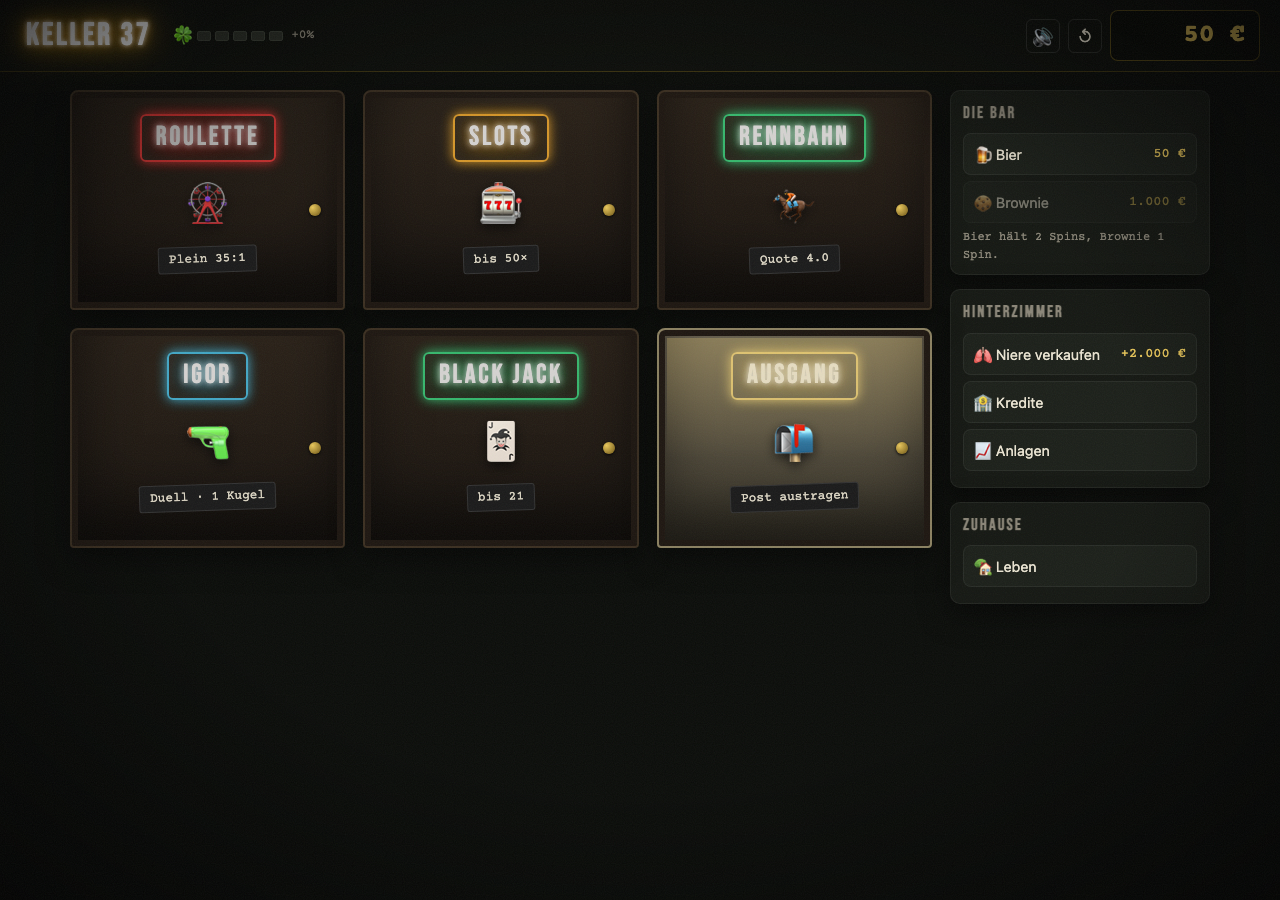
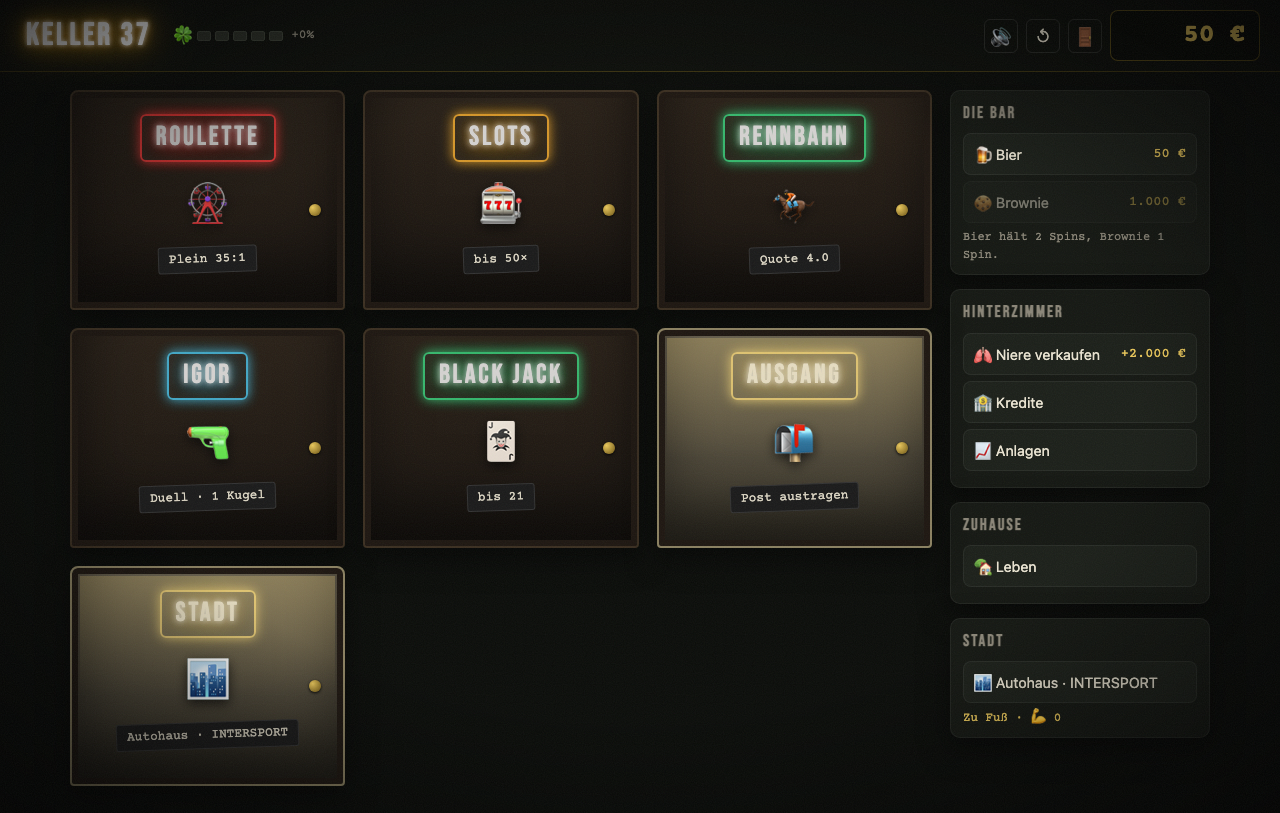
test: Playtest-Szenarien für Stadt, Überfall und Story-Freischaltung, Screenshots, Checkliste

diff --git a/tests/playtest-story.py b/tests/playtest-story.py
@@ -850,6 +850,166 @@ async def scenario_all_scenes(cdp):
            "gespielt=%d/%d fehler=%s" % (len(played), len(scene_ids), new_errors))
 
 
+async def scenario_stadt_shop(cdp):
+    """Stadt: Kauf abgelehnt ohne Geld, Kauf, Upgrade, Markenwechsel mit Bestaetigung, Abbruch."""
+    await cdp.navigate(URL_BASE + "?fresh&screen=stadt")
+    await asyncio.sleep(1.0)
+    await cdp.inject_helpers()
+    n_buttons = await cdp.eval("document.querySelectorAll('#shopAudi .btn').length", await_promise=False)
+    record("stadt: ohne Geld kein Kaufen-Button", n_buttons == 0, "buttons=%s" % n_buttons)
+    await cdp.screenshot("stadt-arm.png")
+    await cdp.eval("State.s.balance = 20000; State.save(); UI.setBalance(20000, {animate:false}); Stadt.render(); 0", await_promise=False)
+    await asyncio.sleep(0.2)
+    await cdp.eval("Stadt.buyCar('audiA3'); 0", await_promise=False)
+    await asyncio.sleep(0.5)
+    await cdp.advance_cutscene()
+    await asyncio.sleep(0.4)
+    car = await cdp.eval("State.s.car", await_promise=False)
+    bal = await cdp.eval("State.s.balance", await_promise=False)
+    record("stadt: A3 gekauft", car == "audiA3" and bal == 18500, "car=%s bal=%s" % (car, bal))
+    label = await cdp.eval("[...document.querySelectorAll('#shopAudi .gear-card')][1].querySelector('.btn').textContent", await_promise=False)
+    record("stadt: RS 4 zeigt Upgrade-Preis mit Inzahlungnahme", label is not None and "7.250" in label, "label=%s" % label)
+    await cdp.screenshot("stadt-a3.png")
+    # Markenwechsel mit Bestaetigung: erst abbrechen, dann zustimmen
+    await cdp.eval("Stadt.buyCar('mercC'); 0", await_promise=False)
+    await asyncio.sleep(0.5)
+    await cdp.advance_cutscene(label_hint="Doch nicht")
+    await asyncio.sleep(0.3)
+    car = await cdp.eval("State.s.car", await_promise=False)
+    record("stadt: Abbruch laesst Auto unveraendert", car == "audiA3", "car=%s" % car)
+    await cdp.eval("Stadt.buyCar('mercC'); 0", await_promise=False)
+    await asyncio.sleep(0.5)
+    await cdp.advance_cutscene(label_hint="Ja, tauschen")
+    await asyncio.sleep(0.4)
+    car = await cdp.eval("State.s.car", await_promise=False)
+    bal = await cdp.eval("State.s.balance", await_promise=False)
+    record("stadt: Markenwechsel A3 -> C-Klasse kostet 1.250", car == "mercC" and bal == 18500 - 1250, "car=%s bal=%s" % (car, bal))
+    await cdp.eval("Stadt.buyShoes('trail'); 0", await_promise=False)
+    await asyncio.sleep(0.5)
+    await cdp.advance_cutscene()
+    await asyncio.sleep(0.3)
+    shoes = await cdp.eval("State.s.shoes", await_promise=False)
+    record("stadt: Trail-Runner gekauft", shoes == "trail", "shoes=%s" % shoes)
+    line = await cdp.eval("document.querySelector('#gearLine') && document.querySelector('#gearLine').textContent", await_promise=False)
+    record("stadt: Seitenleiste zeigt Besitz", line is not None and "Mercedes C-Klasse" in line and "Trail-Runner" in line and "💪 0" in line, "line=%s" % line)
+    terms = await cdp.eval("UI.show('finance').then(()=>document.querySelector('#bankTerms').textContent)")
+    record("stadt: Bank zeigt Mercedes-Konditionen", terms is not None and "27 %" in terms and "4.000" in terms, "terms=%s" % terms)
+
+
+async def scenario_mugging(cdp):
+    """Ueberfall im freien Spiel: alle drei Ausgaenge per ?mug."""
+    async def setup(mug):
+        await cdp.navigate(URL_BASE + "?fresh&screen=hub&mug=" + mug)
+        await asyncio.sleep(1.0)
+        await cdp.inject_helpers()
+        await cdp.eval("State.s.balance = 1000; State.s.stats.spins = 20; State.save(); UI.setBalance(1000, {animate:false}); 0", await_promise=False)
+    # Zahlen
+    await setup("junkie")
+    await cdp.click(".door[data-screen=slots]")
+    await asyncio.sleep(0.6)
+    active = await cdp.eval("__pt.cutsceneActive()", await_promise=False)
+    record("mug: Szene erscheint beim Tuerwechsel", active is True, "active=%s" % active)
+    # Bis zum Wahl-Panel vorklicken (2 Klicks/Panel: Tipp-Text fertigstellen, dann weiter; das
+    # dritte Panel braucht nur den ersten Klick, um die Choice-Buttons zu rendern) statt gleich zu
+    # screenshotten -- der Brief schoss hier noch auf Panel 1 ("Der kurze Weg...", Screenshot ohne
+    # Raeuber und ohne Prozent-Buttons); Step 3 verlangt aber genau die Choice-Buttons mit Prozenten.
+    await cdp.advance_cutscene(max_steps=5)
+    await cdp.screenshot("mug-intro.png")
+    await cdp.advance_cutscene(label_hint="Zahlen")
+    await asyncio.sleep(0.6)
+    bal = await cdp.eval("State.s.balance", await_promise=False)
+    screen = await cdp.eval("UI.current && UI.current.id", await_promise=False)
+    cd = await cdp.eval("State.s.mugCooldown", await_promise=False)
+    record("mug: Zahlen kostet 200 und fuehrt zu den Slots", bal == 800 and screen == "slots" and cd == 15, "bal=%s screen=%s cd=%s" % (bal, screen, cd))
+    # Kaempfen mit Staerke 20 (sicherer Sieg, Brieftasche)
+    await setup("cousin")
+    await cdp.eval("State.s.strength = 20; State.save(); 0", await_promise=False)
+    await cdp.click(".door[data-screen=roulette]")
+    await asyncio.sleep(0.6)
+    await cdp.advance_cutscene(max_steps=5)
+    await cdp.eval("__pt.advance('Kämpfen')", await_promise=False)
+    await asyncio.sleep(0.5)
+    # Screenshot mitten in der Ergebnis-Szene (Gasse-Hintergrund, Portrait, Kampftext) statt erst
+    # nach deren vollstaendiger Aufloesung -- die Brief-Version schoss erst nach dem kompletten
+    # Durchklicken, als bereits wieder das Roulette-Blatt zu sehen war (siehe Report).
+    await cdp.screenshot("mug-fight.png")
+    await cdp.advance_cutscene()
+    await asyncio.sleep(0.4)
+    bal = await cdp.eval("State.s.balance", await_promise=False)
+    st = await cdp.eval("State.s.strength", await_promise=False)
+    won = await cdp.eval("State.s.stats.fightsWon", await_promise=False)
+    record("mug: Kampf mit Staerke 20 gewonnen, Brieftasche 50-150, Staerke 21", 1050 <= (bal or 0) <= 1150 and st == 21 and won == 1, "bal=%s st=%s won=%s" % (bal, st, won))
+    # Wegrennen mit R8 + Carbon (90 %) - Ergebnis ist zufaellig, nur Konsistenz pruefen
+    await setup("jugend")
+    await cdp.eval("State.s.car = 'audiR8'; State.s.shoes = 'carbon'; State.save(); 0", await_promise=False)
+    await cdp.click(".door[data-screen=blackjack]")
+    await asyncio.sleep(0.6)
+    await cdp.advance_cutscene(label_hint="Wegrennen")
+    await asyncio.sleep(0.6)
+    bal = await cdp.eval("State.s.balance", await_promise=False)
+    st = await cdp.eval("State.s.strength", await_promise=False)
+    record("mug: Flucht laesst Staerke unveraendert, Kontostand 1000 (gelungen) oder 700 (erwischt)", bal in (1000, 700) and st == 0, "bal=%s st=%s" % (bal, st))
+    # Kein Ueberfall bei Cooldown
+    await cdp.eval("Mugging.force = true; State.s.mugCooldown = 5; 0", await_promise=False)
+    await cdp.eval("UI.show('hub'); 0", await_promise=False)
+    await asyncio.sleep(0.6)
+    await cdp.click(".door[data-screen=slots]")
+    await asyncio.sleep(0.6)
+    active = await cdp.eval("__pt.cutsceneActive()", await_promise=False)
+    record("mug: ?mug erzwingt auch im Cooldown (Dev), Szene laeuft", active is True, "active=%s" % active)
+    await cdp.advance_cutscene(label_hint="Zahlen")
+
+
+async def scenario_story_stadt(cdp):
+    """Story: Tag 4 schaltet die Stadt frei, Abend-Ueberfall, Eintreiber ab Staerke 4."""
+    await cdp.navigate(URL_BASE + "?fresh&story=schuld&day=4")
+    await asyncio.sleep(1.2)
+    await cdp.inject_helpers()
+    await cdp.advance_cutscene()
+    await asyncio.sleep(0.4)
+    rooms = await cdp.eval("JSON.stringify(State.s.story.unlocked.rooms)", await_promise=False)
+    record("story: Tag 4 schaltet stadt frei", rooms is not None and "stadt" in rooms, "rooms=%s" % rooms)
+    has_btn = await cdp.eval("!!document.querySelector('#side [data-action=stadt]')", await_promise=False)
+    record("story: Seitenleiste zeigt Stadt-Knopf", has_btn is True, "has=%s" % has_btn)
+    await cdp.screenshot("stadt-story-tag4.png")
+    # Abend-Ueberfall erzwingen
+    await cdp.eval("Mugging.force = 'cousin'; State.s.balance = 500; State.save(); 0", await_promise=False)
+    await cdp.eval("Jobs.take('spueler'); 0", await_promise=False)
+    await asyncio.sleep(0.8)
+    await cdp.eval("Spueler.finish && Spueler.finish(); 0", await_promise=False)
+    await asyncio.sleep(0.8)
+    await cdp.eval("Story.evening(); 0", await_promise=False)
+    await asyncio.sleep(0.8)
+    active = await cdp.eval("__pt.cutsceneActive()", await_promise=False)
+    record("story: Ueberfall am Abend", active is True, "active=%s" % active)
+    await cdp.advance_cutscene(label_hint="Zahlen")
+    await asyncio.sleep(0.5)
+    cd = await cdp.eval("State.s.mugCooldown", await_promise=False)
+    phase = await cdp.eval("State.s.story.phase", await_promise=False)
+    record("story: Cooldown 3 Tage, Abend erreicht", cd == 3 and phase == "evening", "cd=%s phase=%s" % (cd, phase))
+    # Eintreiber
+    await cdp.navigate(URL_BASE + "?fresh&story=schuld&day=13")
+    await asyncio.sleep(1.2)
+    await cdp.inject_helpers()
+    await cdp.advance_cutscene()
+    # Race: der Boot-Kettenaufruf Story.enter() -> applyChapter() -> morning() zeigt 'jobs' selbst
+    # noch an, waehrend advance_cutscene() bereits zurueckkehrt (Cutscene.active wird synchron
+    # false, bevor der then()-Rest von morning() den Screen tatsaechlich neu rendert). Ohne diese
+    # Wartezeile landet der direkt folgende manuelle UI.show('jobs')-Aufruf noch in UI.busy und
+    # wird stillschweigend zum No-Op -- das zuvor gepushte 'eintreiber' fehlt dann auf der
+    # Pinnwand, obwohl State.s.story.unlocked.jobs es bereits enthaelt (siehe Selbst-Review).
+    await cdp.wait_for("UI.current && UI.current.id === 'jobs' && !UI.busy", timeout=3.0)
+    await cdp.eval("Story.s.unlocked.jobs.push('eintreiber'); State.s.strength = 3; State.save(); UI.show('jobs'); 0", await_promise=False)
+    await asyncio.sleep(0.6)
+    locked = await cdp.eval("(()=>{const c=[...document.querySelectorAll('#pinboard .jobnote')].find(e=>e.textContent.includes('Eintreiber')); return c ? c.textContent.includes('Stärke 4') : 'missing'})()", await_promise=False)
+    record("story: Eintreiber bei Staerke 3 gesperrt", locked is True, "locked=%s" % locked)
+    await cdp.eval("State.s.strength = 4; State.save(); UI.show('jobs'); 0", await_promise=False)
+    await asyncio.sleep(0.6)
+    locked = await cdp.eval("(()=>{const c=[...document.querySelectorAll('#pinboard .jobnote')].find(e=>e.textContent.includes('Eintreiber')); return c ? c.textContent.includes('Stärke 4') : 'missing'})()", await_promise=False)
+    record("story: Eintreiber bei Staerke 4 offen", locked is False, "locked=%s" % locked)
+    await cdp.screenshot("stadt-story-eintreiber.png")
+
+
 DIFF_THRESHOLD_PCT = 2.0
 
 
@@ -894,6 +1054,9 @@ async def main():
         await scenario_endings(cdp)
         await scenario_all_scenes(cdp)
         await scenario_free_sandbox_unchanged(cdp)
+        await scenario_stadt_shop(cdp)
+        await scenario_mugging(cdp)
+        await scenario_story_stadt(cdp)
     finally:
         n_errors = len(cdp.console_errors)
         for e in cdp.console_errors:

diff --git a/docs/superpowers/checklist-stadt-2026-09-16.md b/docs/superpowers/checklist-stadt-2026-09-16.md
@@ -1,0 +1,111 @@
+# Checkliste: Stadt & Überfall (Spec `2026-09-16-stadt-und-ueberfall-design.md`)
+
+Eine Zeile je Spec-Anforderung aus §2.2, §2.4, §3, §4, §4.5, §6. Nachweis = Node-Selftest-Name
+(`node tests/run-selftest.mjs`, `T.test('…')` in `keller37.html`), Browser-Playtest-Check-Name
+(`python3 tests/playtest-story.py`, `record('…')`) oder Screenshot unter
+`docs/superpowers/screenshots/`. „Lücke" markiert Anforderungen ohne automatisierten Nachweis
+(Code wurde gelesen, aber nicht durch einen Test/Screenshot in diesem Repo belegt).
+
+## §2.2 Katalog `Rules.GEAR`
+
+| Anforderung | Nachweis |
+|---|---|
+| Preise steigen je Linie (Audi/Mercedes), Glück ≤ 4, Zinsen sinken mit Stufe | Node: `GEAR: Preise steigen je Linie, Glück ≤ 4, Zinsen sinken` |
+| Neutrale Defaults ohne Ausrüstung (`mugMult:1`, `flee:0`, `luck:0`, `bankLimit`/`bankRate` = Basiswerte, `postTime/postPay/spuelerBand/taxiTip:0`) | Node: `gear: ohne Ausrüstung neutral` |
+| Kombinierte Boni (Audi R8 + Carbon-Sprinter; Mercedes G) | Node: `gear: Audi R8 + Carbon`, `gear: Mercedes G` |
+| `TRADE_IN` 0,5 in `carUpgradeCost`/`canBuyCar` (Linie + Markenwechsel, kein Downgrade, kein Geld zurück) | Node: `carUpgradeCost / canBuyCar`; Browser: `stadt: A3 gekauft`, `stadt: RS 4 zeigt Upgrade-Preis mit Inzahlungnahme`, `stadt: Markenwechsel A3 -> C-Klasse kostet 1.250` |
+| `canBuyShoes` nur Aufstieg, Sprung erlaubt, voller Preis | Node: `canBuyShoes: nur Aufstieg, Sprung erlaubt, voller Preis`; Browser: `stadt: Trail-Runner gekauft` |
+| Katalog im Screen sichtbar (Icon/Name/Preis/Boni-Stichpunkte je 3 Karten × 3 Schaufenster) | Screenshot: `stadt-arm.png`, `stadt-a3.png` |
+
+## §2.4 Hooks in bestehenden Regeln
+
+| Anforderung | Nachweis |
+|---|---|
+| `Rules.luck(s)` `+ gear.luck` | Node: `luck: Auto-Glück addiert sich` |
+| `Rules.bankInterest(debt, s)` nutzt `gear.bankRate` | Node: `bankInterest: Mercedes-Zinssatz`; Browser: `stadt: Bank zeigt Mercedes-Konditionen` |
+| `Rules.bankLoanAllowed(s, amt)` nutzt `gear.bankLimit` | Node: `bankLoanAllowed / isGameOver: Mercedes-Limit` |
+| `Rules.postmanTier(streak, s)` `+ gear.postTime/postPay` | Node: `postmanTier: Schuhe geben Zeit und Lohn` |
+| Spüler-Timing-Band `+ gear.spuelerBand` | Node: `gear: Audi R8 + Carbon` (Wert `spuelerBand: 0.2`); **Lücke**: kein Browser-Check, der die tatsächlich breitere Zone im Spüler-Minispiel misst (nur die reduced-motion-Variante ohne Schuhe wird geprüft: `reduced-motion: Spueler-Zone bleibt 30% (kein Schrumpfen)`) |
+| Taxi `+ gear.taxiTip`, `StoryRules.taxiPay(p, t, tip)` | Node: `taxiPay mit Trinkgeld, tuerBonus-Deckel` |
+| Türsteher-Schicht `+ min(50, 10 × strength)`, Toast nennt Bonus | Node: `taxiPay mit Trinkgeld, tuerBonus-Deckel` (`StoryRules.tuerBonus`); **Lücke**: kein Test prüft den Toast-Text im Browser (nur dass die Türsteher-Szenen laufen: `schicht-karten tuersteher: alle 3 Szenen gesehen`) |
+| Finanz-Raum zeigt `gear.bankLimit`/`gear.bankRate` | Browser: `stadt: Bank zeigt Mercedes-Konditionen` |
+
+## §3 Screen „Stadt"
+
+| Anforderung | Nachweis |
+|---|---|
+| Hub-Tür „Stadt" 🏙, `data-screen="stadt"`, Chalk-Tag „Autohaus · INTERSPORT" | Screenshot: `hub.png` (erneuert, siehe unten) |
+| Story: `stadt` als Raum, verdeckt bis freigeschaltet, offen morgens **und** abends, Kauf kostet keinen Tag | Node: `StoryRules.validate: Räume` (akzeptiert `stadt`); Browser: `story: Tag 4 schaltet stadt frei`, `story: Seitenleiste zeigt Stadt-Knopf` |
+| Story 1 „Die Schuld": Event `stadtOffen` Tag 4 (once), Szene `schuld.stadt`, Effekt unlockt `rooms:['stadt']` | Node: `Story Schuld: stadtOffen an Tag 4, Eintreiber mit Türsteher freigeschaltet`; Browser: `story: Tag 4 schaltet stadt frei`; Screenshot: `stadt-story-tag4.png` |
+| Drei Schaufenster nebeneinander bei 1280 px | Screenshot: `stadt-arm.png`, `stadt-a3.png` (1280×900 Desktop-Viewport) |
+| Schaufenster untereinander unter 760 px | **Lücke**: kein Screenshot der Stadt bei 400 px in diesem Task (Brief listet dafür keine Datei); `scenario_mobile` prüft nur Pinnwand/Abend-Hub auf horizontales Scrollen, nicht `?screen=stadt` |
+| Karte: Icon/Name/Preis/Boni als Stichpunkte, Buttons „Kaufen"/„Upgrade"/„Deins"/deaktiviert | Screenshot: `stadt-arm.png` (deaktiviert, „Zu wenig Bargeld"), `stadt-a3.png` (. „Deins", „Upgrade · 7.250 €", „Kaufen · …") |
+| Verkäufer-Zeile je Zustand (kein Auto / gleiche Marke / andere Marke / Sport) | Screenshot: `stadt-arm.png` („Zu Fuß gekommen? Mutig."), `stadt-a3.png` („Schön, dass du wieder da bist." / „Der Wechsel lohnt sich. Sagen alle." / „Für Leute, die es eilig haben.") |
+| Kaufablauf: Bestätigungspanel bei Inzahlungnahme/Markenwechsel, Cutscene 2 Panels, `Game.applyDelta`, kein Kauf während `Cutscene.active`/`Game.inFlight` | Browser: `stadt: Markenwechsel A3 -> C-Klasse kostet 1.250`, `stadt: Abbruch laesst Auto unveraendert` |
+| Seitenleiste Besitz-Zeile `🚗 … · 👟 … · 💪 …`, fehlende Teile weggelassen, „Zu Fuß · 💪 0" ohne Ausrüstung | Node: `State.fresh: Gear-Felder` (Defaults `car:null, shoes:null, strength:0`); Browser: `stadt: Seitenleiste zeigt Besitz` |
+
+## §4 Überfall
+
+| Anforderung | Nachweis |
+|---|---|
+| Auslöser freies Spiel: `UI.show(screen)` beim Wechsel `hub` → Casino-Tür | Browser: `mug: Szene erscheint beim Tuerwechsel` |
+| Auslöser Story: `Story.evening()` vor `UI.show('hub')` | Browser: `story: Ueberfall am Abend` |
+| Kein Überfall bei `Cutscene.active`/`Game.inFlight`/`gameOverPending`/`Story.sleeping` | Code-Review `Mugging.blocked()` (Zeile ~3419); kein dedizierter Test in diesem Task – indirekt dadurch belegt, dass in allen anderen Szenarien (Cutscenes, Spins) nie ungewollt ein Überfall dazwischenfunkt (`ERRORS 0` über den gesamten Lauf) |
+| `Rules.mugChance`: Schwellen (Bargeld < 100, Cooldown, Spins < 10 frei, Tag < 4 Story), ×2 ab 2.000 €, Audi-Multiplikator, Abend-Basis 0,12 | Node: `mugChance: Schwellen`, `mugChance: Abend in der Story` |
+| Cooldown 15 Spins (frei) / 3 Tage (Story), Countdown in `afterSpin`/`advanceDay` | Node: `advanceDay: Überfall-Cooldown sinkt pro Tag`; Browser: `mug: Zahlen kostet 200 und fuehrt zu den Slots` (`cd == 15` nach Überfall), `story: Cooldown 3 Tage, Abend erreicht` (`cd == 3`); **Lücke**: kein Test lässt im freien Spiel tatsächlich einen Spin laufen, um das Herunterzählen von `mugCooldown` in `Game.afterSpin` selbst zu beobachten (nur der gesetzte Startwert nach dem Überfall ist geprüft; `afterSpin` ist DOM-abhängig und läuft nicht im Node-Selftest-Harness mit) |
+| `Rules.mugLoot(balance)`: 20 %, geklemmt 50–1500, nie mehr als Bargeld | Node: `mugLoot: 20 %, 50–1500, nie mehr als Bargeld`; Browser: `mug: Zahlen kostet 200 und fuehrt zu den Slots` (200 € bei 1.000 € Bargeld) |
+| Drei Räubertypen (junkie/jugend/cousin) per `?mug=`, Cutscene `gasse` mit drei Choices + Prozentwerten | Browser: `mug: Szene erscheint beim Tuerwechsel` (`?mug=junkie`), `mug: Kampf mit Staerke 20 gewonnen…` (`?mug=cousin`), `mug: Flucht laesst Staerke unveraendert…` (`?mug=jugend`); Screenshot: `mug-intro.png` (Choice-Panel mit „💪 Kämpfen (35 %)" / „👟 Wegrennen (30 %)" / „💸 Zahlen (200 €)") |
+| Kämpfen: `fightChance`, Sieg ohne Verlust + Stärke+1 + ggf. Brieftasche ab Stärke 5, Niederlage `-loot` + Stärke+1 | Node: `fightChance / fleeChance / Deckel`, `mugWallet: 50–150`; Browser: `mug: Kampf mit Staerke 20 gewonnen, Brieftasche 50-150, Staerke 21`; Screenshot: `mug-fight.png` |
+| Wegrennen: `fleeChance`, Erfolg ohne Verlust, Misserfolg `-loot - 10 % Bargeld`, keine Stärke | Node: `fightChance / fleeChance / Deckel`; Browser: `mug: Flucht laesst Staerke unveraendert, Kontostand 1000 (gelungen) oder 700 (erwischt)` |
+| Zahlen: `-loot`, keine Stärke | Browser: `mug: Zahlen kostet 200 und fuehrt zu den Slots` |
+| `stats.muggings`/Cooldown/`State.save()` nach jedem Ausgang, danach Raumwechsel bzw. Abend | Browser: `mug: Zahlen kostet 200 und fuehrt zu den Slots` (`screen == "slots"`) |
+| Dev-Parameter `?mug=1` (Chance 1) und `?mug=junkie\|jugend\|cousin` (Typ), wirkt auch im Cooldown | Browser: `mug: ?mug erzwingt auch im Cooldown (Dev), Szene laeuft` |
+
+## §4.5 Stärke außerhalb des Kampfs
+
+| Anforderung | Nachweis |
+|---|---|
+| Türsteher-Bonus `min(50, 10 × strength)` | Node: `taxiPay mit Trinkgeld, tuerBonus-Deckel` (`StoryRules.tuerBonus`) |
+| Eintreiber-Job (Stärke ≥ 4, `requireText: 'Stärke 4'`), gemeinsam mit Türsteher-Event freigeschaltet, zwei Szenen mit `jobEffects` `ruf +1` | Node: `jobAvailable: Eintreiber braucht Stärke 4`, `Story Schuld: stadtOffen an Tag 4, Eintreiber mit Türsteher freigeschaltet`; Browser: `story: Eintreiber bei Staerke 3 gesperrt`, `story: Eintreiber bei Staerke 4 offen`; Screenshot: `stadt-story-eintreiber.png` |
+| Freies Spiel: Igor-Begrüßung ab Stärke 8 mit Respekt-Zeile | **Lücke**: Code vorhanden (`Cutscene.define('igor.first', …)`, Zeile ~3111–3115, Bedingung `Rules.MUG.STR_RESPECT`), aber kein Node- oder Browser-Test in diesem oder einem vorherigen Task prüft die Zusatzzeile |
+| Trophäen `strassenkaempfer` (5 Kämpfe gewonnen), `vollausgestattet` (Top-Auto Stufe 3 + Carbon-Sprinter) | Definitionen sichtbar in `trophaeen-button: Trophaeenwand gerendert` (Trophäenwand enthält beide Einträge, `count=21`); **Lücke**: kein Test lässt tatsächlich 5 Überfälle gewinnen oder Top-Auto+Carbon kombinieren, um `Achievements.unlock('strassenkaempfer'|'vollausgestattet')` selbst auszulösen |
+
+## §6 Tests
+
+### 6.1 Node-Selftest (`node tests/run-selftest.mjs`)
+
+| Anforderung | Nachweis |
+|---|---|
+| Katalog: Preise je Linie, Glück ≤ 4, Flucht-Summe ≤ 80, Zinsen sinken | Node: `GEAR: Preise steigen je Linie, Glück ≤ 4, Zinsen sinken` |
+| `Rules.gear`: neutral ohne Ausrüstung, R8+Carbon, Mercedes G, Stärke 10 halbiert `mugMult` | Node: `gear: ohne Ausrüstung neutral`, `gear: Audi R8 + Carbon`, `gear: Mercedes G`, `gear: Stärke 10 halbiert mugMult` |
+| `carUpgradeCost`: kein Auto/A3→RS4/A3→C-Klasse/RS4→A3 (Downgrade) | Node: `carUpgradeCost / canBuyCar` |
+| `canBuyShoes`: Basic→Carbon (Sprung), Carbon→Trail (Downgrade) | Node: `canBuyShoes: nur Aufstieg, Sprung erlaubt, voller Preis` |
+| `luck`, `bankLoanAllowed`, `bankInterest`, `postmanTier` mit/ohne Ausrüstung | Node: `luck: Auto-Glück addiert sich`, `bankInterest: Mercedes-Zinssatz`, `bankLoanAllowed / isGameOver: Mercedes-Limit`, `postmanTier: Schuhe geben Zeit und Lohn` |
+| `mugChance`: <100 €, Cooldown, Spins<10, Story-Tag<4, ≥2000 € verdoppelt, Audi-Multiplikator, Abend-Basis 0,12 | Node: `mugChance: Schwellen`, `mugChance: Abend in der Story` |
+| `mugLoot`: 100→50, 10.000→1.500, 60→50, 30→30 | Node: `mugLoot: 20 %, 50–1500, nie mehr als Bargeld` |
+| `fightChance(0)=0.35`, `fightChance(7)=0.9`, `fleeChance`-Deckel 0,9 | Node: `fightChance / fleeChance / Deckel` |
+| `StoryRules.check` mit `strength`; `validate` akzeptiert Raum `stadt` und Job `eintreiber`; `jobAvailable` Eintreiber Stärke 3/4 | Node: `StoryRules.check: strength`, `StoryRules.validate: Räume`, `jobAvailable: Eintreiber braucht Stärke 4` |
+| Tick-Regeln: `afterSpin` senkt `mugCooldown`; `advanceDay` senkt ihn in der Story | Node: `advanceDay: Überfall-Cooldown sinkt pro Tag` für die Story-Seite; **Lücke**: `afterSpin` ist Teil des DOM-abhängigen `game-core`-Blocks und läuft nicht im Node-Selftest-Harness (`tests/run-selftest.mjs` lädt nur `rules, gear-rules, util, state, bus, story-rules, story-probe, story-schuld, selftest`) – siehe Browser-Lücke oben unter §4 |
+| Node-Selftest insgesamt grün | `node tests/run-selftest.mjs` → „107 bestanden, 0 fehlgeschlagen" |
+
+### 6.2 Browser-Playtest (`tests/playtest-story.py`, headless Chrome, 1280 und 400 px)
+
+| Anforderung | Nachweis |
+|---|---|
+| Stadt öffnen, Kauf mit zu wenig Geld: Button deaktiviert, Kontostand unverändert | Browser: `stadt: ohne Geld kein Kaufen-Button`; Screenshot `stadt-arm.png` |
+| A3 kaufen → Upgrade RS 4 (Kosten mit Inzahlungnahme) → Markenwechsel C-Klasse mit Bestätigung → Abbruch lässt Auto unverändert | Browser: `stadt: A3 gekauft`, `stadt: RS 4 zeigt Upgrade-Preis mit Inzahlungnahme`, `stadt: Abbruch laesst Auto unveraendert`, `stadt: Markenwechsel A3 -> C-Klasse kostet 1.250`; Screenshot `stadt-a3.png` |
+| Seitenleiste zeigt Besitz und Stärke | Browser: `stadt: Seitenleiste zeigt Besitz` |
+| `?mug=1`/Typ: alle drei Ausgänge je einmal (Kampf Stärke 20, Zahlen, Flucht), Kontostand/Stärke wie erwartet, danach im gewählten Raum | Browser: `mug: Zahlen kostet 200 und fuehrt zu den Slots`, `mug: Kampf mit Staerke 20 gewonnen, Brieftasche 50-150, Staerke 21`, `mug: Flucht laesst Staerke unveraendert, Kontostand 1000 (gelungen) oder 700 (erwischt)`, `mug: ?mug erzwingt auch im Cooldown (Dev), Szene laeuft` |
+| Story: Tag-4-Morgen-Event schaltet Stadt frei; Eintreiber-Karte erst ab Stärke 4; Türsteher-Toast nennt Bonus | Browser: `story: Tag 4 schaltet stadt frei`, `story: Seitenleiste zeigt Stadt-Knopf`, `story: Eintreiber bei Staerke 3 gesperrt`, `story: Eintreiber bei Staerke 4 offen`; **Lücke**: Türsteher-Toast-Text nicht separat geprüft (siehe §2.4) |
+| Screenshots `stadt-*.png`, `mug-*.png` | `docs/superpowers/screenshots/stadt-arm.png`, `stadt-a3.png`, `stadt-story-tag4.png`, `stadt-story-eintreiber.png`, `mug-intro.png`, `mug-fight.png` |
+| Playtest insgesamt grün (Desktop + `--mobile`) | `python3 tests/playtest-story.py` → „Checks: 74, davon fehlgeschlagen: 0" / „ERRORS 0"; `python3 tests/playtest-story.py --mobile` → gleiches Ergebnis |
+
+## Referenz-Screenshot erneuert
+
+`docs/superpowers/screenshots/hub.png` wurde bewusst überschrieben (vorher ohne, jetzt mit der
+„Stadt"-Tür und dem neuen Seitenleisten-Abschnitt „Stadt"/`#gearLine`) – vor dem Commit visuell
+gegenübergestellt (altes vs. neues Bild) und geprüft, dass der einzige Unterschied die neue Tür,
+das Seitenleisten-Feld und ein kleiner Trophäen-Icon-Zusatz im Kopfbereich sind, keine
+unbeabsichtigte Regression. Der Pixel-Diff-Check `freie sandbox: ?screen=hub unveraendert
+(Pixel-Diff < 2%)` lief vor der Erneuerung mit `FAIL` (5,85 % Abweichung durch die neue Tür) und
+nach der Erneuerung mit `OK` (0,00 % Abweichung).
